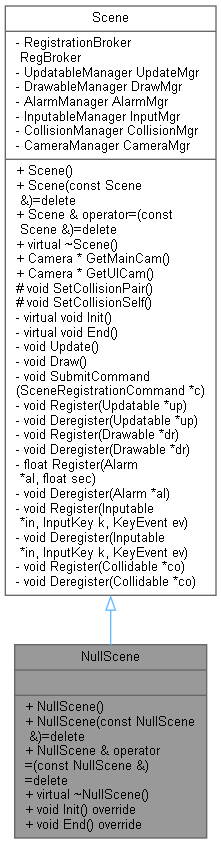
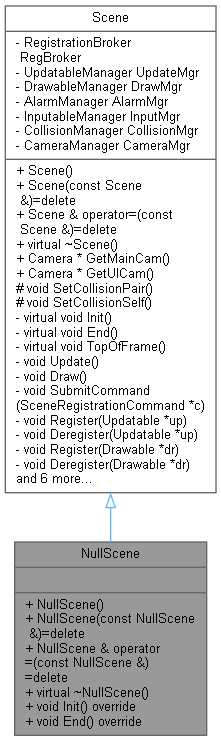
updates to content

Changed region(s): [[0.0, 0.0, 1.0, 1.0], [0.8959, 0.5277, 0.9231, 0.5587], [0.8688, 0.4345, 0.8959, 0.4656]]

diff --git a/_scene_8h_source.html b/_scene_8h_source.html
@@ -157,29 +157,31 @@ $(document).ready(function(){initNavTree('_scene_8h_source.html',''); initResiza
 <div class="line"><a id="l00093" name="l00093"></a><span class="lineno">   93</span> </div>
 <div class="line"><a id="l00099" name="l00099"></a><span class="lineno"><a class="line" href="class_scene.html#adbdd60acb6fcf28614d6b96262cb15a5">   99</a></span>    <span class="keyword">virtual</span> <span class="keywordtype">void</span> <a class="code hl_function" href="class_scene.html#adbdd60acb6fcf28614d6b96262cb15a5">End</a>() {};</div>
 <div class="line"><a id="l00100" name="l00100"></a><span class="lineno">  100</span> </div>
-<div class="line"><a id="l00101" name="l00101"></a><span class="lineno">  101</span>    <span class="keywordtype">void</span> <a class="code hl_function" href="class_scene.html#a71a71b4f7752b853ff8032b0941a9d8d">Update</a>();</div>
-<div class="line"><a id="l00102" name="l00102"></a><span class="lineno">  102</span>    <span class="keywordtype">void</span> <a class="code hl_function" href="class_scene.html#a4813338ee7c6c995f5bb6f10e3673804">Draw</a>();</div>
-<div class="line"><a id="l00103" name="l00103"></a><span class="lineno">  103</span> </div>
-<div class="line"><a id="l00104" name="l00104"></a><span class="lineno">  104</span>    <span class="keywordtype">void</span> <a class="code hl_function" href="class_scene.html#a38283003afe7ab0ab20ee02318c03858">SubmitCommand</a>(<a class="code hl_class" href="class_scene_registration_command.html">SceneRegistrationCommand</a>* c);</div>
-<div class="line"><a id="l00105" name="l00105"></a><span class="lineno">  105</span> </div>
-<div class="line"><a id="l00106" name="l00106"></a><span class="lineno">  106</span>    <span class="keywordtype">void</span> <a class="code hl_function" href="class_scene.html#a3ac2579c0188116b1f0eabd463a9cfdc">Register</a>(<a class="code hl_class" href="class_updatable.html">Updatable</a>* up);</div>
-<div class="line"><a id="l00107" name="l00107"></a><span class="lineno">  107</span>    <span class="keywordtype">void</span> <a class="code hl_function" href="class_scene.html#add3a649a456b0c151c17875a16692e28">Deregister</a>(<a class="code hl_class" href="class_updatable.html">Updatable</a>* up);</div>
-<div class="line"><a id="l00108" name="l00108"></a><span class="lineno">  108</span> </div>
-<div class="line"><a id="l00109" name="l00109"></a><span class="lineno">  109</span>    <span class="keywordtype">void</span> <a class="code hl_function" href="class_scene.html#a3ac2579c0188116b1f0eabd463a9cfdc">Register</a>(<a class="code hl_class" href="class_drawable.html">Drawable</a>* dr);</div>
-<div class="line"><a id="l00110" name="l00110"></a><span class="lineno">  110</span>    <span class="keywordtype">void</span> <a class="code hl_function" href="class_scene.html#add3a649a456b0c151c17875a16692e28">Deregister</a>(<a class="code hl_class" href="class_drawable.html">Drawable</a>* dr);</div>
-<div class="line"><a id="l00111" name="l00111"></a><span class="lineno">  111</span> </div>
-<div class="line"><a id="l00112" name="l00112"></a><span class="lineno">  112</span>    <span class="keywordtype">float</span> <a class="code hl_function" href="class_scene.html#a3ac2579c0188116b1f0eabd463a9cfdc">Register</a>(<a class="code hl_class" href="class_alarm.html">Alarm</a>* al, <span class="keywordtype">float</span> sec);</div>
-<div class="line"><a id="l00113" name="l00113"></a><span class="lineno">  113</span>    <span class="keywordtype">void</span> <a class="code hl_function" href="class_scene.html#add3a649a456b0c151c17875a16692e28">Deregister</a>(<a class="code hl_class" href="class_alarm.html">Alarm</a>* al);</div>
+<div class="line"><a id="l00108" name="l00108"></a><span class="lineno"><a class="line" href="class_scene.html#abac7fcbdde02837c2d01b57dd3f502ad">  108</a></span>    <span class="keyword">virtual</span> <span class="keywordtype">void</span> <a class="code hl_function" href="class_scene.html#abac7fcbdde02837c2d01b57dd3f502ad">TopOfFrame</a>() {};</div>
+<div class="line"><a id="l00109" name="l00109"></a><span class="lineno">  109</span> </div>
+<div class="line"><a id="l00110" name="l00110"></a><span class="lineno">  110</span>    <span class="keywordtype">void</span> <a class="code hl_function" href="class_scene.html#a71a71b4f7752b853ff8032b0941a9d8d">Update</a>();</div>
+<div class="line"><a id="l00111" name="l00111"></a><span class="lineno">  111</span>    <span class="keywordtype">void</span> <a class="code hl_function" href="class_scene.html#a4813338ee7c6c995f5bb6f10e3673804">Draw</a>();</div>
+<div class="line"><a id="l00112" name="l00112"></a><span class="lineno">  112</span> </div>
+<div class="line"><a id="l00113" name="l00113"></a><span class="lineno">  113</span>    <span class="keywordtype">void</span> <a class="code hl_function" href="class_scene.html#a38283003afe7ab0ab20ee02318c03858">SubmitCommand</a>(<a class="code hl_class" href="class_scene_registration_command.html">SceneRegistrationCommand</a>* c);</div>
 <div class="line"><a id="l00114" name="l00114"></a><span class="lineno">  114</span> </div>
-<div class="line"><a id="l00115" name="l00115"></a><span class="lineno">  115</span>    <span class="keywordtype">void</span> <a class="code hl_function" href="class_scene.html#a3ac2579c0188116b1f0eabd463a9cfdc">Register</a>(<a class="code hl_class" href="class_inputable.html">Inputable</a>* in, <a class="code hl_class" href="class_input_key.html">InputKey</a> k, <a class="code hl_enumeration" href="_key_event_8h.html#adade54da2b207529e678a25e6389d494">KeyEvent</a> ev);</div>
-<div class="line"><a id="l00116" name="l00116"></a><span class="lineno">  116</span>    <span class="keywordtype">void</span> <a class="code hl_function" href="class_scene.html#add3a649a456b0c151c17875a16692e28">Deregister</a>(<a class="code hl_class" href="class_inputable.html">Inputable</a>* in, <a class="code hl_class" href="class_input_key.html">InputKey</a> k, <a class="code hl_enumeration" href="_key_event_8h.html#adade54da2b207529e678a25e6389d494">KeyEvent</a> ev);</div>
+<div class="line"><a id="l00115" name="l00115"></a><span class="lineno">  115</span>    <span class="keywordtype">void</span> <a class="code hl_function" href="class_scene.html#a3ac2579c0188116b1f0eabd463a9cfdc">Register</a>(<a class="code hl_class" href="class_updatable.html">Updatable</a>* up);</div>
+<div class="line"><a id="l00116" name="l00116"></a><span class="lineno">  116</span>    <span class="keywordtype">void</span> <a class="code hl_function" href="class_scene.html#add3a649a456b0c151c17875a16692e28">Deregister</a>(<a class="code hl_class" href="class_updatable.html">Updatable</a>* up);</div>
 <div class="line"><a id="l00117" name="l00117"></a><span class="lineno">  117</span> </div>
-<div class="line"><a id="l00118" name="l00118"></a><span class="lineno">  118</span>    <span class="keywordtype">void</span> <a class="code hl_function" href="class_scene.html#a3ac2579c0188116b1f0eabd463a9cfdc">Register</a>(<a class="code hl_class" href="class_collidable.html">Collidable</a>* co);</div>
-<div class="line"><a id="l00119" name="l00119"></a><span class="lineno">  119</span>    <span class="keywordtype">void</span> <a class="code hl_function" href="class_scene.html#add3a649a456b0c151c17875a16692e28">Deregister</a>(<a class="code hl_class" href="class_collidable.html">Collidable</a>* co);</div>
+<div class="line"><a id="l00118" name="l00118"></a><span class="lineno">  118</span>    <span class="keywordtype">void</span> <a class="code hl_function" href="class_scene.html#a3ac2579c0188116b1f0eabd463a9cfdc">Register</a>(<a class="code hl_class" href="class_drawable.html">Drawable</a>* dr);</div>
+<div class="line"><a id="l00119" name="l00119"></a><span class="lineno">  119</span>    <span class="keywordtype">void</span> <a class="code hl_function" href="class_scene.html#add3a649a456b0c151c17875a16692e28">Deregister</a>(<a class="code hl_class" href="class_drawable.html">Drawable</a>* dr);</div>
 <div class="line"><a id="l00120" name="l00120"></a><span class="lineno">  120</span> </div>
-<div class="line"><a id="l00121" name="l00121"></a><span class="lineno">  121</span>};</div>
-<div class="line"><a id="l00122" name="l00122"></a><span class="lineno">  122</span> </div>
-<div class="line"><a id="l00123" name="l00123"></a><span class="lineno">  123</span><span class="preprocessor">#endif</span></div>
+<div class="line"><a id="l00121" name="l00121"></a><span class="lineno">  121</span>    <span class="keywordtype">float</span> <a class="code hl_function" href="class_scene.html#a3ac2579c0188116b1f0eabd463a9cfdc">Register</a>(<a class="code hl_class" href="class_alarm.html">Alarm</a>* al, <span class="keywordtype">float</span> sec);</div>
+<div class="line"><a id="l00122" name="l00122"></a><span class="lineno">  122</span>    <span class="keywordtype">void</span> <a class="code hl_function" href="class_scene.html#add3a649a456b0c151c17875a16692e28">Deregister</a>(<a class="code hl_class" href="class_alarm.html">Alarm</a>* al);</div>
+<div class="line"><a id="l00123" name="l00123"></a><span class="lineno">  123</span> </div>
+<div class="line"><a id="l00124" name="l00124"></a><span class="lineno">  124</span>    <span class="keywordtype">void</span> <a class="code hl_function" href="class_scene.html#a3ac2579c0188116b1f0eabd463a9cfdc">Register</a>(<a class="code hl_class" href="class_inputable.html">Inputable</a>* in, <a class="code hl_class" href="class_input_key.html">InputKey</a> k, <a class="code hl_enumeration" href="_key_event_8h.html#adade54da2b207529e678a25e6389d494">KeyEvent</a> ev);</div>
+<div class="line"><a id="l00125" name="l00125"></a><span class="lineno">  125</span>    <span class="keywordtype">void</span> <a class="code hl_function" href="class_scene.html#add3a649a456b0c151c17875a16692e28">Deregister</a>(<a class="code hl_class" href="class_inputable.html">Inputable</a>* in, <a class="code hl_class" href="class_input_key.html">InputKey</a> k, <a class="code hl_enumeration" href="_key_event_8h.html#adade54da2b207529e678a25e6389d494">KeyEvent</a> ev);</div>
+<div class="line"><a id="l00126" name="l00126"></a><span class="lineno">  126</span> </div>
+<div class="line"><a id="l00127" name="l00127"></a><span class="lineno">  127</span>    <span class="keywordtype">void</span> <a class="code hl_function" href="class_scene.html#a3ac2579c0188116b1f0eabd463a9cfdc">Register</a>(<a class="code hl_class" href="class_collidable.html">Collidable</a>* co);</div>
+<div class="line"><a id="l00128" name="l00128"></a><span class="lineno">  128</span>    <span class="keywordtype">void</span> <a class="code hl_function" href="class_scene.html#add3a649a456b0c151c17875a16692e28">Deregister</a>(<a class="code hl_class" href="class_collidable.html">Collidable</a>* co);</div>
+<div class="line"><a id="l00129" name="l00129"></a><span class="lineno">  129</span> </div>
+<div class="line"><a id="l00130" name="l00130"></a><span class="lineno">  130</span>};</div>
+<div class="line"><a id="l00131" name="l00131"></a><span class="lineno">  131</span> </div>
+<div class="line"><a id="l00132" name="l00132"></a><span class="lineno">  132</span><span class="preprocessor">#endif</span></div>
 <div class="ttc" id="a_alarm_manager_8h_html"><div class="ttname"><a href="_alarm_manager_8h.html">AlarmManager.h</a></div></div>
 <div class="ttc" id="a_camera_manager_8h_html"><div class="ttname"><a href="_camera_manager_8h.html">CameraManager.h</a></div></div>
 <div class="ttc" id="a_collision_manager_8h_html"><div class="ttname"><a href="_collision_manager_8h.html">CollisionManager.h</a></div></div>
@@ -216,6 +218,7 @@ $(document).ready(function(){initNavTree('_scene_8h_source.html',''); initResiza
 <div class="ttc" id="aclass_scene_html_a817e38149ed312f00941b7fbb28a4fcb"><div class="ttname"><a href="class_scene.html#a817e38149ed312f00941b7fbb28a4fcb">Scene::Scene</a></div><div class="ttdeci">Scene(const Scene &amp;)=delete</div></div>
 <div class="ttc" id="aclass_scene_html_a850ad2321473667007a202758803ffe4"><div class="ttname"><a href="class_scene.html#a850ad2321473667007a202758803ffe4">Scene::CollisionMgr</a></div><div class="ttdeci">CollisionManager CollisionMgr</div><div class="ttdef"><b>Definition:</b> Scene.h:79</div></div>
 <div class="ttc" id="aclass_scene_html_aa0f272b1783897dccc7cb2ceee956086"><div class="ttname"><a href="class_scene.html#aa0f272b1783897dccc7cb2ceee956086">Scene::UpdateMgr</a></div><div class="ttdeci">UpdatableManager UpdateMgr</div><div class="ttdef"><b>Definition:</b> Scene.h:75</div></div>
+<div class="ttc" id="aclass_scene_html_abac7fcbdde02837c2d01b57dd3f502ad"><div class="ttname"><a href="class_scene.html#abac7fcbdde02837c2d01b57dd3f502ad">Scene::TopOfFrame</a></div><div class="ttdeci">virtual void TopOfFrame()</div><div class="ttdoc">Excecuted at top of frame, after registration commands are processed, but before any Alarm,...</div><div class="ttdef"><b>Definition:</b> Scene.h:108</div></div>
 <div class="ttc" id="aclass_scene_html_abe04ae93a28174a72f0066fc32cd2eb0"><div class="ttname"><a href="class_scene.html#abe04ae93a28174a72f0066fc32cd2eb0">Scene::operator=</a></div><div class="ttdeci">Scene &amp; operator=(const Scene &amp;)=delete</div></div>
 <div class="ttc" id="aclass_scene_html_acec1366233af92c24f249d70e3f3bd51"><div class="ttname"><a href="class_scene.html#acec1366233af92c24f249d70e3f3bd51">Scene::DrawMgr</a></div><div class="ttdeci">DrawableManager DrawMgr</div><div class="ttdef"><b>Definition:</b> Scene.h:76</div></div>
 <div class="ttc" id="aclass_scene_html_ad10176d75a9cc0da56626f682d083507"><div class="ttname"><a href="class_scene.html#ad10176d75a9cc0da56626f682d083507">Scene::Scene</a></div><div class="ttdeci">Scene()</div><div class="ttdef"><b>Definition:</b> Scene.cpp:7</div></div>

diff --git a/search/all_11.js b/search/all_11.js
@@ -15,33 +15,34 @@ var searchData=
   ['time_12',['Time',['../class_ketchup_attorney_1_1_time.html',1,'KetchupAttorney::Time'],['../class_time_manager_attorney_1_1_time.html',1,'TimeManagerAttorney::Time']]],
   ['timeline_13',['Timeline',['../class_alarm_manager.html#a68bba81286c4ebd2be339a85e7cb4464',1,'AlarmManager']]],
   ['timelineref_14',['TimelineRef',['../class_alarm_manager.html#aab1e5a9461a61d75df59279e48dcc0d3',1,'AlarmManager']]],
-  ['timemanager_15',['TimeManager',['../class_time_manager.html',1,'TimeManager'],['../class_time_manager.html#ab1c3cbb48ad68d928bb8b9a4ef210ed6',1,'TimeManager::TimeManager()'],['../class_time_manager.html#a10508dcd4da65973c3c341adfe83cb8e',1,'TimeManager::TimeManager(const TimeManager &amp;)=delete']]],
+  ['timemanager_15',['TimeManager',['../class_time_manager.html',1,'TimeManager'],['../class_time_manager.html#a10508dcd4da65973c3c341adfe83cb8e',1,'TimeManager::TimeManager(const TimeManager &amp;)=delete'],['../class_time_manager.html#ab1c3cbb48ad68d928bb8b9a4ef210ed6',1,'TimeManager::TimeManager()']]],
   ['timemanager_2ecpp_16',['TimeManager.cpp',['../_time_manager_8cpp.html',1,'']]],
   ['timemanager_2eh_17',['TimeManager.h',['../_time_manager_8h.html',1,'']]],
-  ['timemanagerattorney_18',['TimeManagerAttorney',['../class_time_manager.html#ae1beb2ce31de4e59492462dd5030436c',1,'TimeManager::TimeManagerAttorney()'],['../class_time_manager_attorney.html',1,'TimeManagerAttorney']]],
+  ['timemanagerattorney_18',['TimeManagerAttorney',['../class_time_manager_attorney.html',1,'TimeManagerAttorney'],['../class_time_manager.html#ae1beb2ce31de4e59492462dd5030436c',1,'TimeManager::TimeManagerAttorney()']]],
   ['timemanagerattorney_2eh_19',['TimeManagerAttorney.h',['../_time_manager_attorney_8h.html',1,'']]],
   ['tomato_20',['Tomato',['../namespace_colors.html#a78847e2acbff5d18e5961cc566c20dfa',1,'Colors']]],
-  ['totalfrozentime_21',['totalFrozenTime',['../class_freeze_time.html#a179c77d4fea4694b21f92603890b5b56',1,'FreezeTime']]],
-  ['track_22',['Track',['../class_track.html',1,'Track'],['../class_track.html#a11457bcda8be04595018c11173d8241c',1,'Track::Track()'],['../class_track.html#a70e52323a32d31ef43ec341e64ab0a2b',1,'Track::Track(const Track &amp;)=delete']]],
-  ['track_2ecpp_23',['Track.cpp',['../_track_8cpp.html',1,'']]],
-  ['track_2eh_24',['Track.h',['../_track_8h.html',1,'']]],
-  ['trackid_25',['TrackID',['../class_track.html#a4a47e348fdb5b009c1f023d69bea4b72',1,'Track']]],
-  ['trackpoint_26',['TrackPoint',['../struct_track_1_1_track_point.html',1,'Track']]],
-  ['transparent_27',['Transparent',['../namespace_colors.html#a8a31f64832530e47ffdcfc72a95cfc30',1,'Colors']]],
-  ['trigger_28',['Trigger',['../class_alarm_attorney_1_1_trigger.html',1,'AlarmAttorney']]],
-  ['triggeralarm_29',['TriggerAlarm',['../class_alarm.html#a296dd4265f8cae9f3b69e2e916b8ddb3',1,'Alarm::TriggerAlarm()'],['../class_alarm_attorney_1_1_trigger.html#a04c75ff1b9cf959d27dd722505225d29',1,'AlarmAttorney::Trigger::TriggerAlarm()']]],
-  ['triggercallbacks_30',['TriggerCallbacks',['../class_collision_dispatcher.html#ab9b9ee2f607b667dc4bfac8cb64d2b8d',1,'CollisionDispatcher::TriggerCallbacks()'],['../class_collision_dispatcher_base.html#a5f75f50a7a1f1cd421bf97b9af0edce9',1,'CollisionDispatcherBase::TriggerCallbacks()']]],
-  ['triggerpressedcallbacks_31',['TriggerPressedCallbacks',['../class_key_listener.html#af46972554879d851f879067f0fab1252',1,'KeyListener']]],
-  ['triggerreleasedcallbacks_32',['TriggerReleasedCallbacks',['../class_key_listener.html#abc6ec3412355ff3a660eb1df42570139',1,'KeyListener']]],
-  ['triggersceneentry_33',['TriggerSceneEntry',['../class_game_object_attorney_1_1_registration.html#a0135db4a89e1b41740c336606e0cbbf2',1,'GameObjectAttorney::Registration']]],
-  ['triggersceneexit_34',['TriggerSceneExit',['../class_game_object_attorney_1_1_registration.html#a19e7fd9e44ed8a119d6ee1c35d4be021',1,'GameObjectAttorney::Registration']]],
-  ['turquoise_35',['Turquoise',['../namespace_colors.html#ae0e6fadf5739b35c72706d9255f316f1',1,'Colors']]],
-  ['tut_5fgobj_2eh_36',['tut_gobj.h',['../tut__gobj_8h.html',1,'']]],
-  ['tut_5finput_2eh_37',['tut_input.h',['../tut__input_8h.html',1,'']]],
-  ['tut_5fload_2eh_38',['tut_load.h',['../tut__load_8h.html',1,'']]],
-  ['tut_5fmain_2eh_39',['tut_main.h',['../tut__main_8h.html',1,'']]],
-  ['tut_5fscene_2eh_40',['tut_scene.h',['../tut__scene_8h.html',1,'']]],
-  ['tut_5fsetting_2eh_41',['tut_setting.h',['../tut__setting_8h.html',1,'']]],
-  ['tut_5fupdate_2eh_42',['tut_update.h',['../tut__update_8h.html',1,'']]],
-  ['typeid_43',['TypeID',['../class_collidable_attorney_1_1_type_i_d.html',1,'CollidableAttorney']]]
+  ['topofframe_21',['TopOfFrame',['../class_scene.html#abac7fcbdde02837c2d01b57dd3f502ad',1,'Scene']]],
+  ['totalfrozentime_22',['totalFrozenTime',['../class_freeze_time.html#a179c77d4fea4694b21f92603890b5b56',1,'FreezeTime']]],
+  ['track_23',['Track',['../class_track.html',1,'Track'],['../class_track.html#a70e52323a32d31ef43ec341e64ab0a2b',1,'Track::Track(const Track &amp;)=delete'],['../class_track.html#a11457bcda8be04595018c11173d8241c',1,'Track::Track()']]],
+  ['track_2ecpp_24',['Track.cpp',['../_track_8cpp.html',1,'']]],
+  ['track_2eh_25',['Track.h',['../_track_8h.html',1,'']]],
+  ['trackid_26',['TrackID',['../class_track.html#a4a47e348fdb5b009c1f023d69bea4b72',1,'Track']]],
+  ['trackpoint_27',['TrackPoint',['../struct_track_1_1_track_point.html',1,'Track']]],
+  ['transparent_28',['Transparent',['../namespace_colors.html#a8a31f64832530e47ffdcfc72a95cfc30',1,'Colors']]],
+  ['trigger_29',['Trigger',['../class_alarm_attorney_1_1_trigger.html',1,'AlarmAttorney']]],
+  ['triggeralarm_30',['TriggerAlarm',['../class_alarm.html#a296dd4265f8cae9f3b69e2e916b8ddb3',1,'Alarm::TriggerAlarm()'],['../class_alarm_attorney_1_1_trigger.html#a04c75ff1b9cf959d27dd722505225d29',1,'AlarmAttorney::Trigger::TriggerAlarm()']]],
+  ['triggercallbacks_31',['TriggerCallbacks',['../class_collision_dispatcher.html#ab9b9ee2f607b667dc4bfac8cb64d2b8d',1,'CollisionDispatcher::TriggerCallbacks()'],['../class_collision_dispatcher_base.html#a5f75f50a7a1f1cd421bf97b9af0edce9',1,'CollisionDispatcherBase::TriggerCallbacks()']]],
+  ['triggerpressedcallbacks_32',['TriggerPressedCallbacks',['../class_key_listener.html#af46972554879d851f879067f0fab1252',1,'KeyListener']]],
+  ['triggerreleasedcallbacks_33',['TriggerReleasedCallbacks',['../class_key_listener.html#abc6ec3412355ff3a660eb1df42570139',1,'KeyListener']]],
+  ['triggersceneentry_34',['TriggerSceneEntry',['../class_game_object_attorney_1_1_registration.html#a0135db4a89e1b41740c336606e0cbbf2',1,'GameObjectAttorney::Registration']]],
+  ['triggersceneexit_35',['TriggerSceneExit',['../class_game_object_attorney_1_1_registration.html#a19e7fd9e44ed8a119d6ee1c35d4be021',1,'GameObjectAttorney::Registration']]],
+  ['turquoise_36',['Turquoise',['../namespace_colors.html#ae0e6fadf5739b35c72706d9255f316f1',1,'Colors']]],
+  ['tut_5fgobj_2eh_37',['tut_gobj.h',['../tut__gobj_8h.html',1,'']]],
+  ['tut_5finput_2eh_38',['tut_input.h',['../tut__input_8h.html',1,'']]],
+  ['tut_5fload_2eh_39',['tut_load.h',['../tut__load_8h.html',1,'']]],
+  ['tut_5fmain_2eh_40',['tut_main.h',['../tut__main_8h.html',1,'']]],
+  ['tut_5fscene_2eh_41',['tut_scene.h',['../tut__scene_8h.html',1,'']]],
+  ['tut_5fsetting_2eh_42',['tut_setting.h',['../tut__setting_8h.html',1,'']]],
+  ['tut_5fupdate_2eh_43',['tut_update.h',['../tut__update_8h.html',1,'']]],
+  ['typeid_44',['TypeID',['../class_collidable_attorney_1_1_type_i_d.html',1,'CollidableAttorney']]]
 ];

diff --git a/class_scene.html b/class_scene.html
@@ -106,8 +106,8 @@ Inheritance diagram for Scene:</div>
 <div class="dyncontent">
 <div class="center"><img src="class_scene__inherit__graph.png" border="0" usemap="#a_scene_inherit__map" alt="Inheritance graph"/></div>
 <map name="a_scene_inherit__map" id="a_scene_inherit__map">
-<area shape="rect" title=" " alt="" coords="5,5,216,596"/>
-<area shape="rect" href="class_null_scene.html" title=" " alt="" coords="15,644,207,839"/>
+<area shape="rect" title=" " alt="" coords="5,5,216,493"/>
+<area shape="rect" href="class_null_scene.html" title=" " alt="" coords="15,541,207,736"/>
 </map>
 </div>
 <div class="dynheader">
@@ -115,7 +115,7 @@ Collaboration diagram for Scene:</div>
 <div class="dyncontent">
 <div class="center"><img src="class_scene__coll__graph.png" border="0" usemap="#a_scene_coll__map" alt="Collaboration graph"/></div>
 <map name="a_scene_coll__map" id="a_scene_coll__map">
-<area shape="rect" title=" " alt="" coords="1073,4755,1283,5243"/>
+<area shape="rect" title=" " alt="" coords="1073,4755,1283,5140"/>
 <area shape="rect" href="class_registration_broker.html" title=" " alt="" coords="227,1572,438,1825"/>
 <area shape="rect" title=" " alt="" coords="435,703,617,795"/>
 <area shape="rect" href="class_scene_registration_command.html" title=" " alt="" coords="1310,285,1550,479"/>
@@ -197,6 +197,9 @@ Private Member Functions</h2></td></tr>
 <tr class="memitem:adbdd60acb6fcf28614d6b96262cb15a5"><td class="memItemLeft" align="right" valign="top">virtual void&#160;</td><td class="memItemRight" valign="bottom"><a class="el" href="class_scene.html#adbdd60acb6fcf28614d6b96262cb15a5">End</a> ()</td></tr>
 <tr class="memdesc:adbdd60acb6fcf28614d6b96262cb15a5"><td class="mdescLeft">&#160;</td><td class="mdescRight">Ends this scene. Called by the <a class="el" href="class_scene_manager.html">SceneManager</a> when cleaning up the <a class="el" href="class_scene.html">Scene</a>. To be overridden by the user.  <br /></td></tr>
 <tr class="separator:adbdd60acb6fcf28614d6b96262cb15a5"><td class="memSeparator" colspan="2">&#160;</td></tr>
+<tr class="memitem:abac7fcbdde02837c2d01b57dd3f502ad"><td class="memItemLeft" align="right" valign="top">virtual void&#160;</td><td class="memItemRight" valign="bottom"><a class="el" href="class_scene.html#abac7fcbdde02837c2d01b57dd3f502ad">TopOfFrame</a> ()</td></tr>
+<tr class="memdesc:abac7fcbdde02837c2d01b57dd3f502ad"><td class="mdescLeft">&#160;</td><td class="mdescRight">Excecuted at top of frame, after registration commands are processed, but before any <a class="el" href="class_alarm.html">Alarm</a>, <a class="el" href="class_inputable.html">Inputable</a>, or <a class="el" href="class_game_object.html">GameObject</a> are updated. Does nothing by default. To be optionally overridden by user.  <br /></td></tr>
+<tr class="separator:abac7fcbdde02837c2d01b57dd3f502ad"><td class="memSeparator" colspan="2">&#160;</td></tr>
 <tr class="memitem:a71a71b4f7752b853ff8032b0941a9d8d"><td class="memItemLeft" align="right" valign="top">void&#160;</td><td class="memItemRight" valign="bottom"><a class="el" href="class_scene.html#a71a71b4f7752b853ff8032b0941a9d8d">Update</a> ()</td></tr>
 <tr class="separator:a71a71b4f7752b853ff8032b0941a9d8d"><td class="memSeparator" colspan="2">&#160;</td></tr>
 <tr class="memitem:a4813338ee7c6c995f5bb6f10e3673804"><td class="memItemLeft" align="right" valign="top">void&#160;</td><td class="memItemRight" valign="bottom"><a class="el" href="class_scene.html#a4813338ee7c6c995f5bb6f10e3673804">Draw</a> ()</td></tr>
@@ -865,6 +868,34 @@ template&lt;typename C1 &gt; </div>
   </tr>
 </table>
 </div><div class="memdoc">
+
+</div>
+</div>
+<a id="abac7fcbdde02837c2d01b57dd3f502ad" name="abac7fcbdde02837c2d01b57dd3f502ad"></a>
+<h2 class="memtitle"><span class="permalink"><a href="#abac7fcbdde02837c2d01b57dd3f502ad">&#9670;&#160;</a></span>TopOfFrame()</h2>
+
+<div class="memitem">
+<div class="memproto">
+<table class="mlabels">
+  <tr>
+  <td class="mlabels-left">
+      <table class="memname">
+        <tr>
+          <td class="memname">virtual void Scene::TopOfFrame </td>
+          <td>(</td>
+          <td class="paramname"></td><td>)</td>
+          <td></td>
+        </tr>
+      </table>
+  </td>
+  <td class="mlabels-right">
+<span class="mlabels"><span class="mlabel">inline</span><span class="mlabel">private</span><span class="mlabel">virtual</span></span>  </td>
+  </tr>
+</table>
+</div><div class="memdoc">
+
+<p>Excecuted at top of frame, after registration commands are processed, but before any <a class="el" href="class_alarm.html">Alarm</a>, <a class="el" href="class_inputable.html">Inputable</a>, or <a class="el" href="class_game_object.html">GameObject</a> are updated. Does nothing by default. To be optionally overridden by user. </p>
+<p>Haru, 3/27/2023. </p>
 
 </div>
 </div>

diff --git a/class_null_scene-members.html b/class_null_scene-members.html
@@ -125,10 +125,11 @@ $(document).ready(function(){initNavTree('class_null_scene.html',''); initResiza
   <tr class="odd"><td class="entry"><a class="el" href="class_scene.html#a7257d595b38462d1764a6c4e260b47f7">SetCollisionPair</a>()</td><td class="entry"><a class="el" href="class_scene.html">Scene</a></td><td class="entry"><span class="mlabel">inline</span><span class="mlabel">protected</span></td></tr>
   <tr class="even"><td class="entry"><a class="el" href="class_scene.html#af198d5dc3e3a472f32ef71100517323b">SetCollisionSelf</a>()</td><td class="entry"><a class="el" href="class_scene.html">Scene</a></td><td class="entry"><span class="mlabel">inline</span><span class="mlabel">protected</span></td></tr>
   <tr class="odd"><td class="entry"><a class="el" href="class_scene.html#a38283003afe7ab0ab20ee02318c03858">SubmitCommand</a>(SceneRegistrationCommand *c)</td><td class="entry"><a class="el" href="class_scene.html">Scene</a></td><td class="entry"><span class="mlabel">private</span></td></tr>
-  <tr class="even"><td class="entry"><a class="el" href="class_scene.html#a71a71b4f7752b853ff8032b0941a9d8d">Update</a>()</td><td class="entry"><a class="el" href="class_scene.html">Scene</a></td><td class="entry"><span class="mlabel">private</span></td></tr>
-  <tr class="odd"><td class="entry"><a class="el" href="class_scene.html#aa0f272b1783897dccc7cb2ceee956086">UpdateMgr</a></td><td class="entry"><a class="el" href="class_scene.html">Scene</a></td><td class="entry"><span class="mlabel">private</span></td></tr>
-  <tr class="even"><td class="entry"><a class="el" href="class_null_scene.html#a4aab66ec2f9a3e3dbfbbd651d29cde87">~NullScene</a>()</td><td class="entry"><a class="el" href="class_null_scene.html">NullScene</a></td><td class="entry"><span class="mlabel">inline</span><span class="mlabel">virtual</span></td></tr>
-  <tr class="odd"><td class="entry"><a class="el" href="class_scene.html#a3b8cec2e32546713915f8c6303c951f1">~Scene</a>()</td><td class="entry"><a class="el" href="class_scene.html">Scene</a></td><td class="entry"><span class="mlabel">virtual</span></td></tr>
+  <tr class="even"><td class="entry"><a class="el" href="class_scene.html#abac7fcbdde02837c2d01b57dd3f502ad">TopOfFrame</a>()</td><td class="entry"><a class="el" href="class_scene.html">Scene</a></td><td class="entry"><span class="mlabel">inline</span><span class="mlabel">private</span><span class="mlabel">virtual</span></td></tr>
+  <tr class="odd"><td class="entry"><a class="el" href="class_scene.html#a71a71b4f7752b853ff8032b0941a9d8d">Update</a>()</td><td class="entry"><a class="el" href="class_scene.html">Scene</a></td><td class="entry"><span class="mlabel">private</span></td></tr>
+  <tr class="even"><td class="entry"><a class="el" href="class_scene.html#aa0f272b1783897dccc7cb2ceee956086">UpdateMgr</a></td><td class="entry"><a class="el" href="class_scene.html">Scene</a></td><td class="entry"><span class="mlabel">private</span></td></tr>
+  <tr class="odd"><td class="entry"><a class="el" href="class_null_scene.html#a4aab66ec2f9a3e3dbfbbd651d29cde87">~NullScene</a>()</td><td class="entry"><a class="el" href="class_null_scene.html">NullScene</a></td><td class="entry"><span class="mlabel">inline</span><span class="mlabel">virtual</span></td></tr>
+  <tr class="even"><td class="entry"><a class="el" href="class_scene.html#a3b8cec2e32546713915f8c6303c951f1">~Scene</a>()</td><td class="entry"><a class="el" href="class_scene.html">Scene</a></td><td class="entry"><span class="mlabel">virtual</span></td></tr>
 </table></div><!-- contents -->
 </div><!-- doc-content -->
 <!-- start footer part -->

diff --git a/search/functions_11.js b/search/functions_11.js
@@ -5,11 +5,12 @@ var searchData=
   ['testkey_2',['TestKey',['../class_key_listener.html#a1c7ce51e898c0aa4e44132aa0beb1f15',1,'KeyListener']]],
   ['texturemanager_3',['TextureManager',['../class_texture_manager.html#aca4613cdc54d8c39aa1de41dc26c7fec',1,'TextureManager::TextureManager()=default'],['../class_texture_manager.html#ae0a812052ff90565e3a0e3bcfc766240',1,'TextureManager::TextureManager(const TextureManager &amp;)=delete']]],
   ['timemanager_4',['TimeManager',['../class_time_manager.html#ab1c3cbb48ad68d928bb8b9a4ef210ed6',1,'TimeManager::TimeManager()'],['../class_time_manager.html#a10508dcd4da65973c3c341adfe83cb8e',1,'TimeManager::TimeManager(const TimeManager &amp;)=delete']]],
-  ['track_5',['Track',['../class_track.html#a11457bcda8be04595018c11173d8241c',1,'Track::Track()'],['../class_track.html#a70e52323a32d31ef43ec341e64ab0a2b',1,'Track::Track(const Track &amp;)=delete']]],
-  ['triggeralarm_6',['TriggerAlarm',['../class_alarm.html#a296dd4265f8cae9f3b69e2e916b8ddb3',1,'Alarm::TriggerAlarm()'],['../class_alarm_attorney_1_1_trigger.html#a04c75ff1b9cf959d27dd722505225d29',1,'AlarmAttorney::Trigger::TriggerAlarm()']]],
-  ['triggercallbacks_7',['TriggerCallbacks',['../class_collision_dispatcher.html#ab9b9ee2f607b667dc4bfac8cb64d2b8d',1,'CollisionDispatcher::TriggerCallbacks()'],['../class_collision_dispatcher_base.html#a5f75f50a7a1f1cd421bf97b9af0edce9',1,'CollisionDispatcherBase::TriggerCallbacks()']]],
-  ['triggerpressedcallbacks_8',['TriggerPressedCallbacks',['../class_key_listener.html#af46972554879d851f879067f0fab1252',1,'KeyListener']]],
-  ['triggerreleasedcallbacks_9',['TriggerReleasedCallbacks',['../class_key_listener.html#abc6ec3412355ff3a660eb1df42570139',1,'KeyListener']]],
-  ['triggersceneentry_10',['TriggerSceneEntry',['../class_game_object_attorney_1_1_registration.html#a0135db4a89e1b41740c336606e0cbbf2',1,'GameObjectAttorney::Registration']]],
-  ['triggersceneexit_11',['TriggerSceneExit',['../class_game_object_attorney_1_1_registration.html#a19e7fd9e44ed8a119d6ee1c35d4be021',1,'GameObjectAttorney::Registration']]]
+  ['topofframe_5',['TopOfFrame',['../class_scene.html#abac7fcbdde02837c2d01b57dd3f502ad',1,'Scene']]],
+  ['track_6',['Track',['../class_track.html#a11457bcda8be04595018c11173d8241c',1,'Track::Track()'],['../class_track.html#a70e52323a32d31ef43ec341e64ab0a2b',1,'Track::Track(const Track &amp;)=delete']]],
+  ['triggeralarm_7',['TriggerAlarm',['../class_alarm.html#a296dd4265f8cae9f3b69e2e916b8ddb3',1,'Alarm::TriggerAlarm()'],['../class_alarm_attorney_1_1_trigger.html#a04c75ff1b9cf959d27dd722505225d29',1,'AlarmAttorney::Trigger::TriggerAlarm()']]],
+  ['triggercallbacks_8',['TriggerCallbacks',['../class_collision_dispatcher.html#ab9b9ee2f607b667dc4bfac8cb64d2b8d',1,'CollisionDispatcher::TriggerCallbacks()'],['../class_collision_dispatcher_base.html#a5f75f50a7a1f1cd421bf97b9af0edce9',1,'CollisionDispatcherBase::TriggerCallbacks()']]],
+  ['triggerpressedcallbacks_9',['TriggerPressedCallbacks',['../class_key_listener.html#af46972554879d851f879067f0fab1252',1,'KeyListener']]],
+  ['triggerreleasedcallbacks_10',['TriggerReleasedCallbacks',['../class_key_listener.html#abc6ec3412355ff3a660eb1df42570139',1,'KeyListener']]],
+  ['triggersceneentry_11',['TriggerSceneEntry',['../class_game_object_attorney_1_1_registration.html#a0135db4a89e1b41740c336606e0cbbf2',1,'GameObjectAttorney::Registration']]],
+  ['triggersceneexit_12',['TriggerSceneExit',['../class_game_object_attorney_1_1_registration.html#a19e7fd9e44ed8a119d6ee1c35d4be021',1,'GameObjectAttorney::Registration']]]
 ];

diff --git a/navtreeindex4.js b/navtreeindex4.js
@@ -22,8 +22,8 @@ var NAVTREEINDEX4 =
 "class_registration_broker.html#ab249cdeef2755610f2dd7959ceb5eaa0":[3,0,53,4],
 "class_registration_broker.html#acfd39d085a65f14e7232c02c8ff55bee":[3,0,53,0],
 "class_scene.html":[3,0,54],
-"class_scene.html#a0b248d3476769516b48f4a16feaa4bed":[3,0,54,28],
-"class_scene.html#a16e0e075d75997e866c3dc71a56c0d16":[3,0,54,23],
+"class_scene.html#a0b248d3476769516b48f4a16feaa4bed":[3,0,54,29],
+"class_scene.html#a16e0e075d75997e866c3dc71a56c0d16":[3,0,54,24],
 "class_scene.html#a25d38fb1b14a44cb875693291d61a3e2":[3,0,54,11],
 "class_scene.html#a304fceaf80eff80dce663455ed23a31a":[3,0,54,5],
 "class_scene.html#a38283003afe7ab0ab20ee02318c03858":[3,0,54,21],
@@ -32,27 +32,28 @@ var NAVTREEINDEX4 =
 "class_scene.html#a413d63ca1002678c71c973804416a3dc":[3,0,54,3],
 "class_scene.html#a4795d07805507f46c3018c7f45285cfa":[3,0,54,4],
 "class_scene.html#a4813338ee7c6c995f5bb6f10e3673804":[3,0,54,8],
-"class_scene.html#a4df3d5a4b5d895e164ab270e4099a1ad":[3,0,54,29],
+"class_scene.html#a4df3d5a4b5d895e164ab270e4099a1ad":[3,0,54,30],
 "class_scene.html#a5c0b71343c5e6df94d035dbf33709873":[3,0,54,14],
 "class_scene.html#a6919b0436bf2c62f6630ccc6fcc3087a":[3,0,54,16],
 "class_scene.html#a6ebf8d58c8a51f32e17242e639586cb6":[3,0,54,15],
-"class_scene.html#a71a71b4f7752b853ff8032b0941a9d8d":[3,0,54,22],
+"class_scene.html#a71a71b4f7752b853ff8032b0941a9d8d":[3,0,54,23],
 "class_scene.html#a7257d595b38462d1764a6c4e260b47f7":[3,0,54,19],
 "class_scene.html#a817e38149ed312f00941b7fbb28a4fcb":[3,0,54,1],
-"class_scene.html#a850ad2321473667007a202758803ffe4":[3,0,54,26],
-"class_scene.html#aa0f272b1783897dccc7cb2ceee956086":[3,0,54,30],
+"class_scene.html#a850ad2321473667007a202758803ffe4":[3,0,54,27],
+"class_scene.html#aa0f272b1783897dccc7cb2ceee956086":[3,0,54,31],
 "class_scene.html#aa496dba39d0504e73cd5c929879b8861":[3,0,54,17],
 "class_scene.html#ab2991420c8b09dcae4bb116823186871":[3,0,54,6],
+"class_scene.html#abac7fcbdde02837c2d01b57dd3f502ad":[3,0,54,22],
 "class_scene.html#abe04ae93a28174a72f0066fc32cd2eb0":[3,0,54,13],
-"class_scene.html#acec1366233af92c24f249d70e3f3bd51":[3,0,54,27],
+"class_scene.html#acec1366233af92c24f249d70e3f3bd51":[3,0,54,28],
 "class_scene.html#ad10176d75a9cc0da56626f682d083507":[3,0,54,0],
 "class_scene.html#adbdd60acb6fcf28614d6b96262cb15a5":[3,0,54,9],
 "class_scene.html#add3a649a456b0c151c17875a16692e28":[3,0,54,7],
-"class_scene.html#ae4014604c40eb4e9a56e3d6fecfddf76":[3,0,54,25],
+"class_scene.html#ae4014604c40eb4e9a56e3d6fecfddf76":[3,0,54,26],
 "class_scene.html#af198d5dc3e3a472f32ef71100517323b":[3,0,54,20],
 "class_scene.html#af79ffd76345dcee77ba7d068a37f68bf":[3,0,54,10],
 "class_scene.html#afa4f07e2ccd907e9686d51ee0a670619":[3,0,54,12],
-"class_scene.html#afae4e8e84f303e7c4dade610d0c9be2c":[3,0,54,24],
+"class_scene.html#afae4e8e84f303e7c4dade610d0c9be2c":[3,0,54,25],
 "class_scene_attorney.html":[3,0,55],
 "class_scene_attorney_1_1_alarm_reg.html":[3,0,55,0],
 "class_scene_attorney_1_1_alarm_reg.html#a3a4e9ea68e15df0e206e7da0f98f5d51":[3,0,55,0,0],
@@ -248,6 +249,5 @@ var NAVTREEINDEX4 =
 "class_sprite_font.html#a8b24c4fc57aee1abadb7e990146f5555":[3,0,69,6],
 "class_sprite_font.html#aab7620c239b357c6fcfdda9cf628116b":[3,0,69,11],
 "class_sprite_font.html#ab2f86d1dd853bab2101aef532ea01a70":[3,0,69,0],
-"class_sprite_font.html#ad0315766d34236c65ea007ff991b9105":[3,0,69,4],
-"class_sprite_font.html#ae67ec68b7c169f0279e06d8905b34c33":[3,0,69,10]
+"class_sprite_font.html#ad0315766d34236c65ea007ff991b9105":[3,0,69,4]
 };

diff --git a/class_scene-members.html b/class_scene-members.html
@@ -123,9 +123,10 @@ $(document).ready(function(){initNavTree('class_scene.html',''); initResizable()
   <tr class="odd"><td class="entry"><a class="el" href="class_scene.html#a7257d595b38462d1764a6c4e260b47f7">SetCollisionPair</a>()</td><td class="entry"><a class="el" href="class_scene.html">Scene</a></td><td class="entry"><span class="mlabel">inline</span><span class="mlabel">protected</span></td></tr>
   <tr class="even"><td class="entry"><a class="el" href="class_scene.html#af198d5dc3e3a472f32ef71100517323b">SetCollisionSelf</a>()</td><td class="entry"><a class="el" href="class_scene.html">Scene</a></td><td class="entry"><span class="mlabel">inline</span><span class="mlabel">protected</span></td></tr>
   <tr class="odd"><td class="entry"><a class="el" href="class_scene.html#a38283003afe7ab0ab20ee02318c03858">SubmitCommand</a>(SceneRegistrationCommand *c)</td><td class="entry"><a class="el" href="class_scene.html">Scene</a></td><td class="entry"><span class="mlabel">private</span></td></tr>
-  <tr class="even"><td class="entry"><a class="el" href="class_scene.html#a71a71b4f7752b853ff8032b0941a9d8d">Update</a>()</td><td class="entry"><a class="el" href="class_scene.html">Scene</a></td><td class="entry"><span class="mlabel">private</span></td></tr>
-  <tr class="odd"><td class="entry"><a class="el" href="class_scene.html#aa0f272b1783897dccc7cb2ceee956086">UpdateMgr</a></td><td class="entry"><a class="el" href="class_scene.html">Scene</a></td><td class="entry"><span class="mlabel">private</span></td></tr>
-  <tr class="even"><td class="entry"><a class="el" href="class_scene.html#a3b8cec2e32546713915f8c6303c951f1">~Scene</a>()</td><td class="entry"><a class="el" href="class_scene.html">Scene</a></td><td class="entry"><span class="mlabel">virtual</span></td></tr>
+  <tr class="even"><td class="entry"><a class="el" href="class_scene.html#abac7fcbdde02837c2d01b57dd3f502ad">TopOfFrame</a>()</td><td class="entry"><a class="el" href="class_scene.html">Scene</a></td><td class="entry"><span class="mlabel">inline</span><span class="mlabel">private</span><span class="mlabel">virtual</span></td></tr>
+  <tr class="odd"><td class="entry"><a class="el" href="class_scene.html#a71a71b4f7752b853ff8032b0941a9d8d">Update</a>()</td><td class="entry"><a class="el" href="class_scene.html">Scene</a></td><td class="entry"><span class="mlabel">private</span></td></tr>
+  <tr class="even"><td class="entry"><a class="el" href="class_scene.html#aa0f272b1783897dccc7cb2ceee956086">UpdateMgr</a></td><td class="entry"><a class="el" href="class_scene.html">Scene</a></td><td class="entry"><span class="mlabel">private</span></td></tr>
+  <tr class="odd"><td class="entry"><a class="el" href="class_scene.html#a3b8cec2e32546713915f8c6303c951f1">~Scene</a>()</td><td class="entry"><a class="el" href="class_scene.html">Scene</a></td><td class="entry"><span class="mlabel">virtual</span></td></tr>
 </table></div><!-- contents -->
 </div><!-- doc-content -->
 <!-- start footer part -->

diff --git a/class_scene_manager.html b/class_scene_manager.html
@@ -107,8 +107,8 @@ Collaboration diagram for SceneManager:</div>
 <div class="dyncontent">
 <div class="center"><img src="class_scene_manager__coll__graph.png" border="0" usemap="#a_scene_manager_coll__map" alt="Collaboration graph"/></div>
 <map name="a_scene_manager_coll__map" id="a_scene_manager_coll__map">
-<area shape="rect" title=" " alt="" coords="1687,5320,1895,5676"/>
-<area shape="rect" href="class_scene.html" title=" " alt="" coords="1318,4755,1529,5243"/>
+<area shape="rect" title=" " alt="" coords="1687,5217,1895,5573"/>
+<area shape="rect" href="class_scene.html" title=" " alt="" coords="1318,4755,1529,5140"/>
 <area shape="rect" href="class_registration_broker.html" title=" " alt="" coords="1441,1572,1651,1825"/>
 <area shape="rect" title=" " alt="" coords="1452,703,1635,795"/>
 <area shape="rect" href="class_scene_registration_command.html" title=" " alt="" coords="1074,285,1314,479"/>
@@ -152,8 +152,8 @@ Collaboration diagram for SceneManager:</div>
 <area shape="rect" title=" " alt="" coords="40,929,191,1021"/>
 <area shape="rect" href="class_camera_manager.html" title=" " alt="" coords="1324,4461,1517,4685"/>
 <area shape="rect" href="class_scene_update_strategy.html" title=" " alt="" coords="1901,4468,2116,4677"/>
-<area shape="rect" href="class_default_scene_update.html" title=" " alt="" coords="1574,4894,1779,5103"/>
-<area shape="rect" href="class_swap_scene_update.html" title=" " alt="" coords="1803,4901,2011,5096"/>
+<area shape="rect" href="class_default_scene_update.html" title=" " alt="" coords="1574,4843,1779,5052"/>
+<area shape="rect" href="class_swap_scene_update.html" title=" " alt="" coords="1803,4850,2011,5045"/>
 </map>
 </div>
 <table class="memberdecls">

diff --git a/class_null_scene.html b/class_null_scene.html
@@ -102,8 +102,8 @@ Inheritance diagram for NullScene:</div>
 <div class="dyncontent">
 <div class="center"><img src="class_null_scene__inherit__graph.png" border="0" usemap="#a_null_scene_inherit__map" alt="Inheritance graph"/></div>
 <map name="a_null_scene_inherit__map" id="a_null_scene_inherit__map">
-<area shape="rect" title=" " alt="" coords="15,644,207,839"/>
-<area shape="rect" href="class_scene.html" title=" " alt="" coords="5,5,216,596"/>
+<area shape="rect" title=" " alt="" coords="15,541,207,736"/>
+<area shape="rect" href="class_scene.html" title=" " alt="" coords="5,5,216,493"/>
 </map>
 </div>
 <div class="dynheader">
@@ -111,8 +111,8 @@ Collaboration diagram for NullScene:</div>
 <div class="dyncontent">
 <div class="center"><img src="class_null_scene__coll__graph.png" border="0" usemap="#a_null_scene_coll__map" alt="Collaboration graph"/></div>
 <map name="a_null_scene_coll__map" id="a_null_scene_coll__map">
-<area shape="rect" title=" " alt="" coords="994,5292,1186,5487"/>
-<area shape="rect" href="class_scene.html" title=" " alt="" coords="985,4755,1195,5243"/>
+<area shape="rect" title=" " alt="" coords="994,5189,1186,5384"/>
+<area shape="rect" href="class_scene.html" title=" " alt="" coords="985,4755,1195,5140"/>
 <area shape="rect" href="class_registration_broker.html" title=" " alt="" coords="177,1572,387,1825"/>
 <area shape="rect" title=" " alt="" coords="385,703,568,795"/>
 <area shape="rect" href="class_scene_registration_command.html" title=" " alt="" coords="1307,285,1547,479"/>

diff --git a/functions_func_t.html b/functions_func_t.html
@@ -97,6 +97,7 @@ $(document).ready(function(){initNavTree('functions_func_t.html',''); initResiza
 <li>TestKey()&#160;:&#160;<a class="el" href="class_key_listener.html#a1c7ce51e898c0aa4e44132aa0beb1f15">KeyListener</a></li>
 <li>TextureManager()&#160;:&#160;<a class="el" href="class_texture_manager.html#aca4613cdc54d8c39aa1de41dc26c7fec">TextureManager</a></li>
 <li>TimeManager()&#160;:&#160;<a class="el" href="class_time_manager.html#ab1c3cbb48ad68d928bb8b9a4ef210ed6">TimeManager</a></li>
+<li>TopOfFrame()&#160;:&#160;<a class="el" href="class_scene.html#abac7fcbdde02837c2d01b57dd3f502ad">Scene</a></li>
 <li>Track()&#160;:&#160;<a class="el" href="class_track.html#a11457bcda8be04595018c11173d8241c">Track</a></li>
 <li>TriggerAlarm()&#160;:&#160;<a class="el" href="class_alarm.html#a296dd4265f8cae9f3b69e2e916b8ddb3">Alarm</a>, <a class="el" href="class_alarm_attorney_1_1_trigger.html#a04c75ff1b9cf959d27dd722505225d29">AlarmAttorney::Trigger</a></li>
 <li>TriggerCallbacks()&#160;:&#160;<a class="el" href="class_collision_dispatcher.html#ab9b9ee2f607b667dc4bfac8cb64d2b8d">CollisionDispatcher&lt; C1, C2 &gt;</a>, <a class="el" href="class_collision_dispatcher_base.html#a5f75f50a7a1f1cd421bf97b9af0edce9">CollisionDispatcherBase</a></li>

diff --git a/functions_t.html b/functions_t.html
@@ -101,6 +101,7 @@ $(document).ready(function(){initNavTree('functions_t.html',''); initResizable()
 <li>TimelineRef&#160;:&#160;<a class="el" href="class_alarm_manager.html#aab1e5a9461a61d75df59279e48dcc0d3">AlarmManager</a></li>
 <li>TimeManager()&#160;:&#160;<a class="el" href="class_time_manager.html#ab1c3cbb48ad68d928bb8b9a4ef210ed6">TimeManager</a></li>
 <li>TimeManagerAttorney&#160;:&#160;<a class="el" href="class_time_manager.html#ae1beb2ce31de4e59492462dd5030436c">TimeManager</a></li>
+<li>TopOfFrame()&#160;:&#160;<a class="el" href="class_scene.html#abac7fcbdde02837c2d01b57dd3f502ad">Scene</a></li>
 <li>totalFrozenTime&#160;:&#160;<a class="el" href="class_freeze_time.html#a179c77d4fea4694b21f92603890b5b56">FreezeTime</a></li>
 <li>Track()&#160;:&#160;<a class="el" href="class_track.html#a11457bcda8be04595018c11173d8241c">Track</a></li>
 <li>TrackID&#160;:&#160;<a class="el" href="class_track.html#a4a47e348fdb5b009c1f023d69bea4b72">Track</a></li>

diff --git a/class_scene.js b/class_scene.js
@@ -22,6 +22,7 @@ var class_scene =
     [ "SetCollisionPair", "class_scene.html#a7257d595b38462d1764a6c4e260b47f7", null ],
     [ "SetCollisionSelf", "class_scene.html#af198d5dc3e3a472f32ef71100517323b", null ],
     [ "SubmitCommand", "class_scene.html#a38283003afe7ab0ab20ee02318c03858", null ],
+    [ "TopOfFrame", "class_scene.html#abac7fcbdde02837c2d01b57dd3f502ad", null ],
     [ "Update", "class_scene.html#a71a71b4f7752b853ff8032b0941a9d8d", null ],
     [ "SceneAttorney", "class_scene.html#a16e0e075d75997e866c3dc71a56c0d16", null ],
     [ "AlarmMgr", "class_scene.html#afae4e8e84f303e7c4dade610d0c9be2c", null ],
